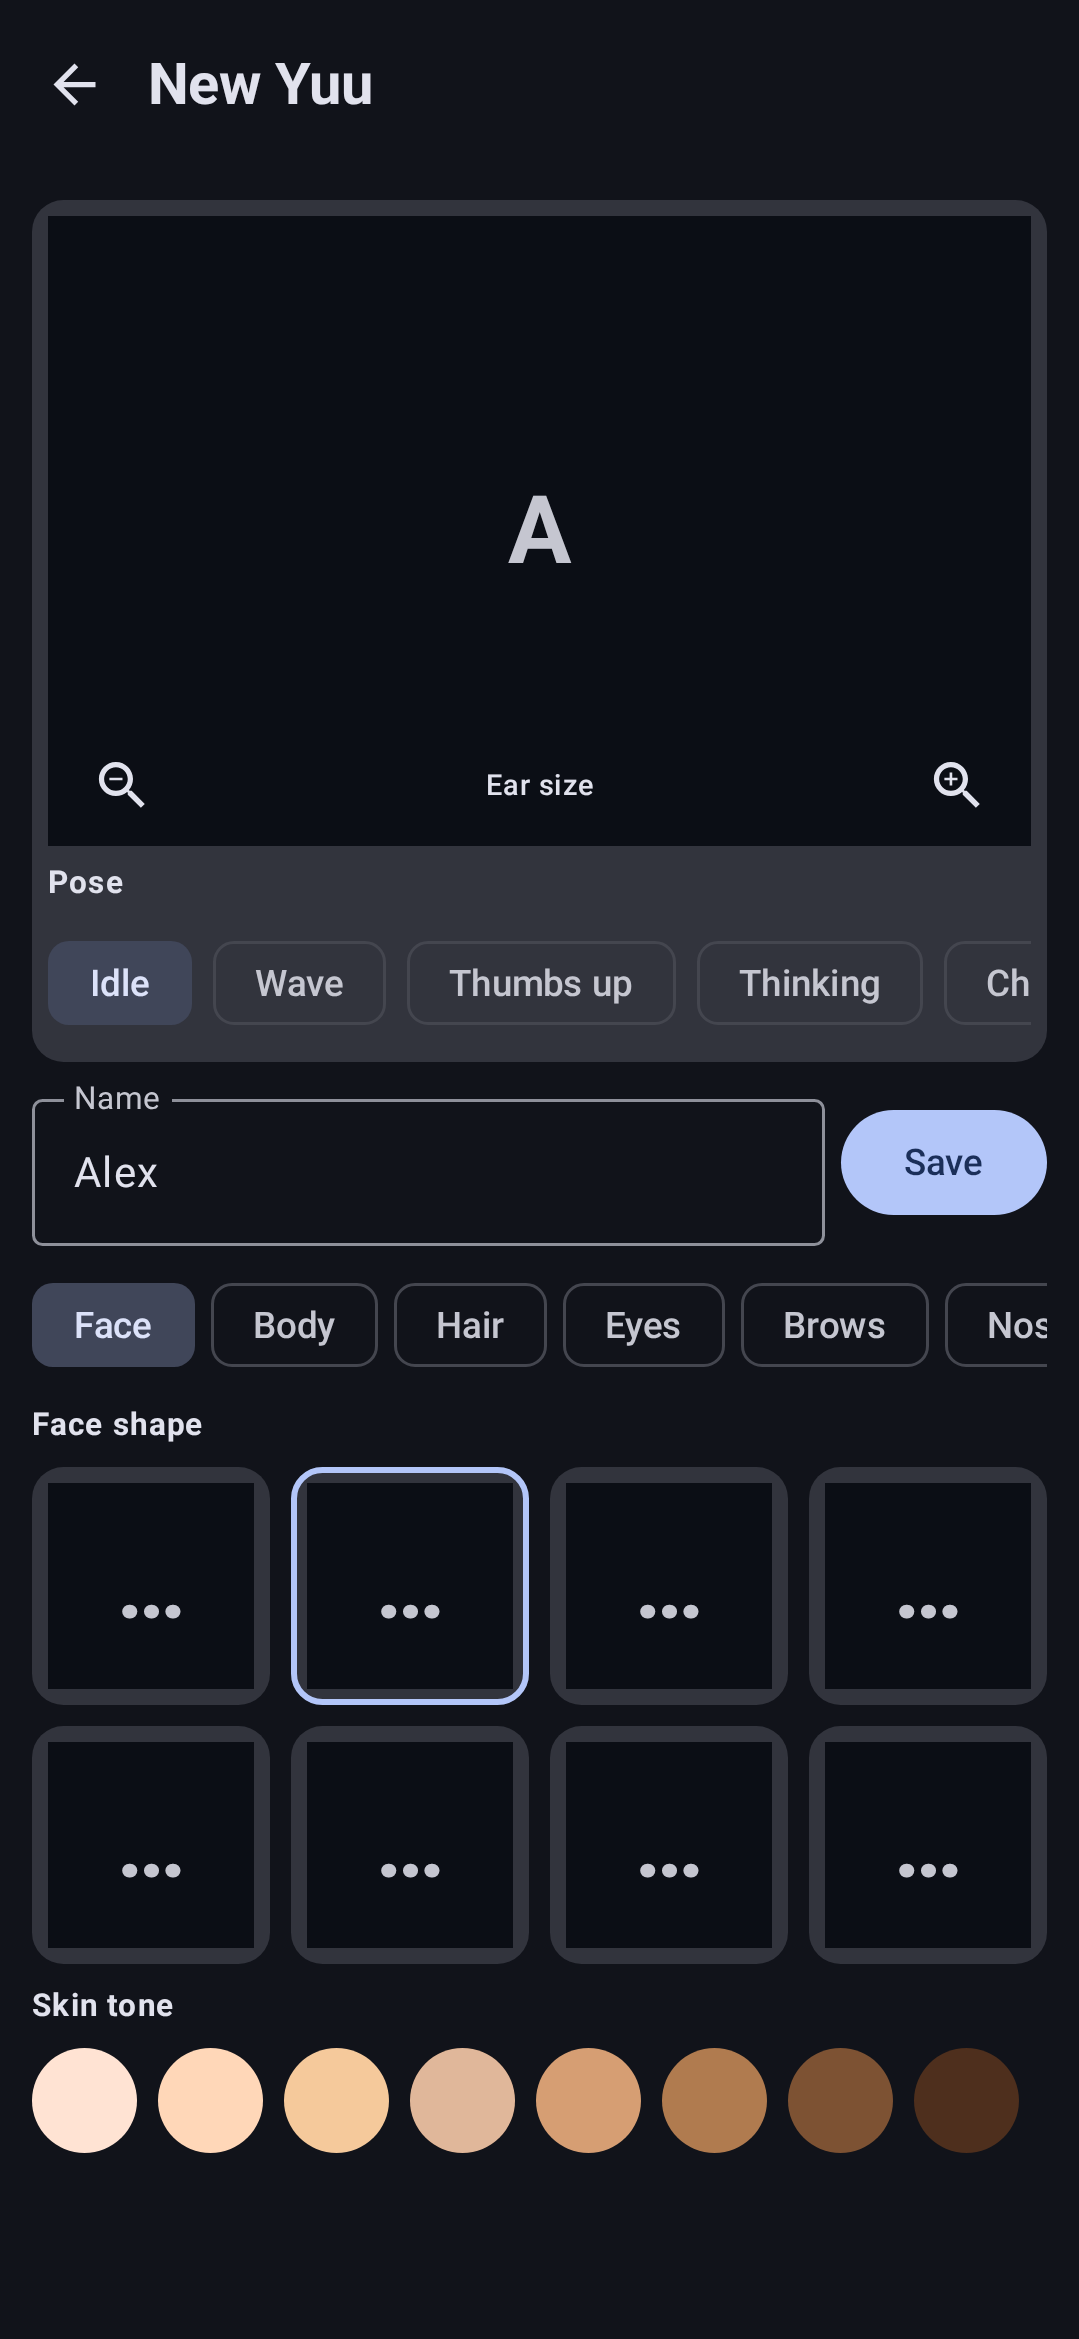
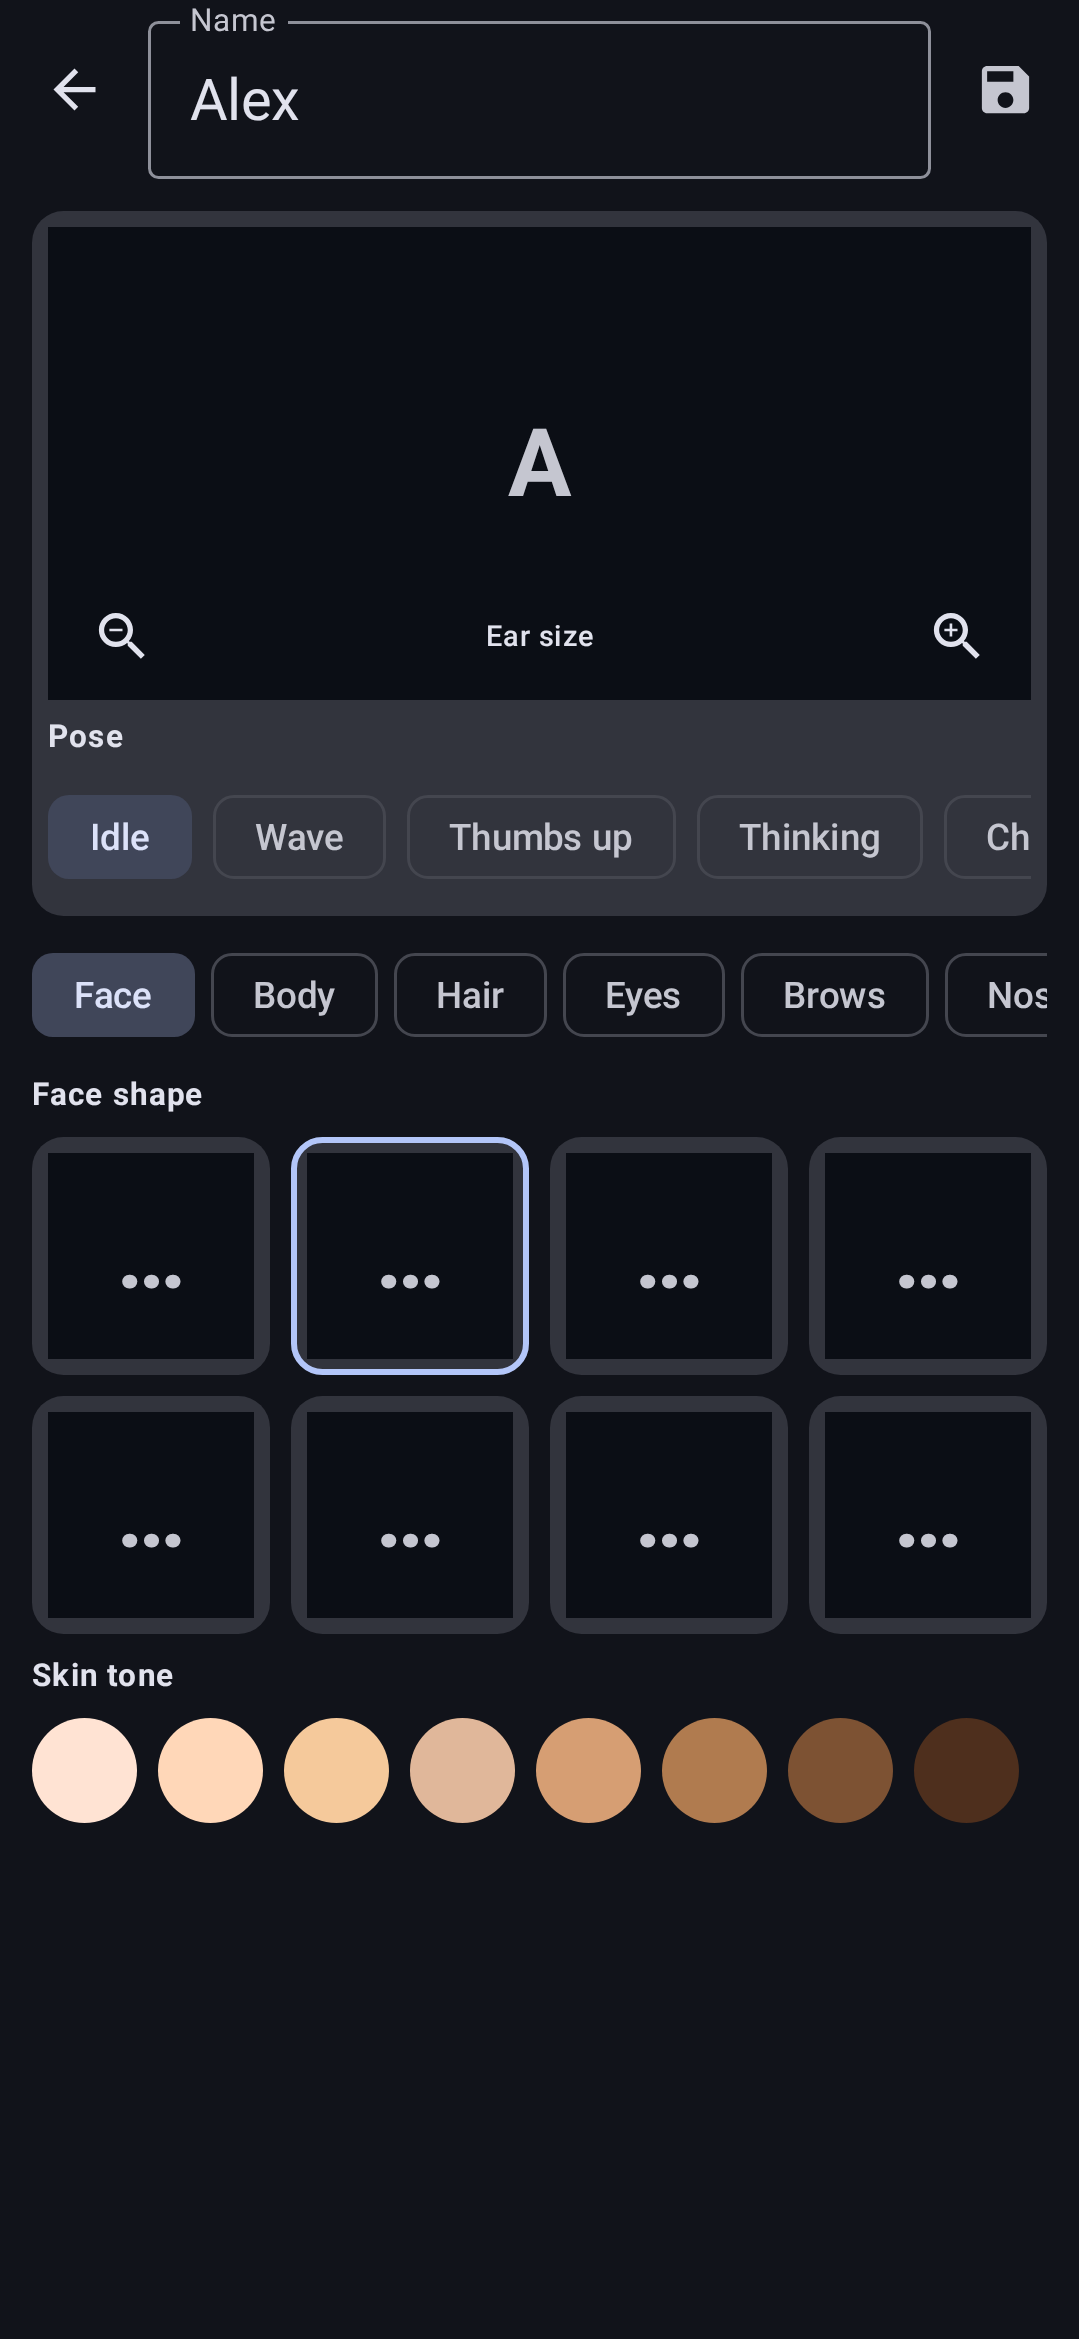
various fixes

Changed region(s): [[0.0306, 0.1873, 0.9787, 0.9363], [0.0306, 0.0, 0.9481, 0.1248]]

diff --git a/games/hub/src/main/java/com/vayunmathur/games/hub/ui/screens/YuuEditorScreen.kt b/games/hub/src/main/java/com/vayunmathur/games/hub/ui/screens/YuuEditorScreen.kt
@@ -51,7 +51,6 @@ import com.vayunmathur.games.hub.ui.yuu.YuuCategory
 import com.vayunmathur.games.hub.ui.yuu.YuuEditorActions
 import com.vayunmathur.games.hub.ui.yuu.YuuEditorUiState
 import com.vayunmathur.library.ui.AppScaffold
-import com.vayunmathur.library.ui.Button
 import com.vayunmathur.library.ui.Card
 import com.vayunmathur.library.ui.FilterChip
 import com.vayunmathur.library.ui.IconArrowDownward
@@ -59,6 +58,7 @@ import com.vayunmathur.library.ui.IconArrowUpward
 import com.vayunmathur.library.ui.IconButton
 import com.vayunmathur.library.ui.IconRotateLeft
 import com.vayunmathur.library.ui.IconRotateRight
+import com.vayunmathur.library.ui.IconSave
 import com.vayunmathur.library.ui.IconUnfoldLess
 import com.vayunmathur.library.ui.IconUnfoldMore
 import com.vayunmathur.library.ui.IconZoomIn
@@ -92,14 +92,30 @@ fun YuuEditorScreen(
 
     AppScaffold(
         title = {
-            Text(
-                stringResource(
-                    if (state.editingId == null) R.string.yuu_new else R.string.yuu_edit_title
-                ),
-                fontWeight = FontWeight.Bold,
+            OutlinedTextField(
+                value = name,
+                onValueChange = { name = it; nameError = false },
+                label = { Text(stringResource(UiR.string.name)) },
+                singleLine = true,
+                isError = nameError,
+                supportingText = if (nameError) {
+                    { Text(stringResource(R.string.yuu_name_required)) }
+                } else null,
+                modifier = Modifier.fillMaxWidth(),
             )
         },
         onNavigateBack = actions::onDismiss,
+        actions = {
+            IconButton(
+                onClick = {
+                    if (name.isBlank()) {
+                        nameError = true
+                    } else {
+                        actions.onSave(name, draft.toConfig())
+                    }
+                }
+            ) { IconSave() }
+        },
         scrollBehavior = appBarScrollBehavior(),
     ) { padding ->
         Column(
@@ -116,7 +132,7 @@ fun YuuEditorScreen(
                 ) {
                     Box(
                         modifier = Modifier.fillMaxWidth()
-                            .heightIn(max = 240.dp),
+                            .heightIn(max = 180.dp),
                         contentAlignment = Alignment.Center,
                     ) {
                         YuuAvatar3D(
@@ -153,34 +169,7 @@ fun YuuEditorScreen(
                     )
                 }
             }
-            // Zone 2: name + save on one compact row.
-            Row(
-                modifier = Modifier.fillMaxWidth(),
-                horizontalArrangement = Arrangement.spacedBy(6.dp),
-                verticalAlignment = Alignment.CenterVertically,
-            ) {
-                OutlinedTextField(
-                    value = name,
-                    onValueChange = { name = it; nameError = false },
-                    label = { Text(stringResource(UiR.string.name)) },
-                    singleLine = true,
-                    isError = nameError,
-                    supportingText = if (nameError) {
-                        { Text(stringResource(R.string.yuu_name_required)) }
-                    } else null,
-                    modifier = Modifier.weight(1f),
-                )
-                Button(
-                    onClick = {
-                        if (name.isBlank()) {
-                            nameError = true
-                        } else {
-                            actions.onSave(name, draft.toConfig())
-                        }
-                    },
-                ) { Text(stringResource(UiR.string.save)) }
-            }
-            // Zone 3: category rail (never scrolls the screen).
+            // Zone 2: category rail (never scrolls the screen).
             LazyRow(horizontalArrangement = Arrangement.spacedBy(6.dp)) {
                 items(YuuCategory.entries) { cat ->
                     FilterChip(
@@ -190,7 +179,7 @@ fun YuuEditorScreen(
                     )
                 }
             }
-            // Zone 4: the ONLY scrollable area — the option picker.
+            // Zone 3: the ONLY scrollable area — the option picker.
             Column(
                 modifier = Modifier.fillMaxWidth().weight(1f).verticalScroll(rememberScrollState()),
                 verticalArrangement = Arrangement.spacedBy(6.dp),
@@ -211,7 +200,7 @@ fun YuuEditorScreen(
 }
 
 /** Preview aspect (w/h): avatar and stepper overlay share it — keep in sync. */
-private const val PREVIEW_ASPECT = 1.5f
+private const val PREVIEW_ASPECT = 2.0f
 
 private fun YuuCategory.labelRes(): Int = when (this) {
     YuuCategory.Face -> R.string.yuu_cat_face

diff --git a/maps/src/main/rust/src/graph_part5.rs b/maps/src/main/rust/src/graph_part5.rs
@@ -196,6 +196,59 @@ mod archive_tests {
         ]
     }
 
+    /// One edge, v7 blocked: the escape index and name totals live behind the
+    /// blocked records and must read through the payload base, not null.
+    ///
+    /// Regression for the on-device SIGSEGV (`OfflineRouter_init`, 2026-10-19):
+    /// the v7 path nulled the edges/nodes base, so the escape-totals check in
+    /// `assemble` read `0x0 + offset` and faulted. The zero-edge v7 test above
+    /// takes the same code path, but with tables at offset 0 a null base still
+    /// lands inside the first mapped page on some loaders — one non-empty edge
+    /// record pushes the tables out and makes the fault deterministic.
+    fn single_edge_payloads_v7() -> Vec<(u8, Vec<u8>, u64)> {
+        // Two nodes (ids 0, 1) plus the sentinel: node 0 owns edge 0
+        // (`edge_ptr` [0, 1, 1]; the sentinel is `edge_count`).
+        let mut node_recs = Vec::new();
+        for edge_ptr in [0u32, 1u32, 1u32] {
+            node_recs.extend_from_slice(&0i32.to_le_bytes());
+            node_recs.extend_from_slice(&0i32.to_le_bytes());
+            node_recs.extend_from_slice(&edge_ptr.to_le_bytes());
+        }
+        let nodes = tilecodec::blocked::write_blocked(&node_recs, 12);
+        // One 7-byte edge record: target_delta +1, dist 1000 mm, type 5, limit 50.
+        let mut edge_rec = Vec::new();
+        edge_rec.extend_from_slice(&1i16.to_le_bytes());
+        edge_rec.extend_from_slice(&[0xE8, 0x03, 0x00]); // 1000, u24 LE
+        edge_rec.push(5u8);
+        edge_rec.push(50u8);
+        let recs = tilecodec::blocked::write_blocked(&edge_rec, 7);
+        let mut edges = recs;
+        while edges.len() % 8 != 0 {
+            edges.push(0);
+        }
+        // E = 1: two escape-block u32s (E/1024 + 1, total 0 escapes),
+        // then the names bitmap (rank (1/512 + 1) = 2 u64s + present
+        // div_ceil(1/8) = 1 byte), then zero name offsets (0 named).
+        edges.extend_from_slice(&0u32.to_le_bytes());
+        edges.extend_from_slice(&0u32.to_le_bytes());
+        edges.extend_from_slice(&0u64.to_le_bytes());
+        edges.extend_from_slice(&0u64.to_le_bytes());
+        edges.push(0u8);
+        vec![
+            (
+                ARCHIVE_KIND_GRAPH_META,
+                meta_at(GRAPH_VERSION, 2, 1, 0, 0),
+                0,
+            ),
+            (ARCHIVE_KIND_GRAPH_NODES, nodes, 1),
+            (ARCHIVE_KIND_GRAPH_EDGES, edges, 0),
+            // G = 0, E = 1: bitmap 17 + coarse 8 + within 2 + G 8 = 35 bytes
+            // of trailer, zero blob. Sized from the counts, not copied from
+            // the zero-edge fixture (26 bytes: its bitmap is 9 for E = 0).
+            (ARCHIVE_KIND_GRAPH_INTERMEDIATE, vec![0u8; 35], 0),
+        ]
+    }
+
     #[test]
     fn container_layers_parse_before_assemble_runs() {
         let bytes = assemble(&minimal_payloads());
@@ -225,6 +278,23 @@ mod archive_tests {
         let node = g.node(0);
         assert_eq!((node.lat_e7, node.lon_e7), (0, 0));
         assert!(g.uses_blocked_sections(), "v7 takes the blocked path");
+    }
+
+    #[test]
+    fn a_v7_archive_with_an_edge_reads_the_tail_tables_past_the_records() {
+        let g =
+            load_slices(&single_edge_payloads_v7()).expect("a one-edge v7 archive loads");
+        assert_eq!(g.node_count, 2);
+        assert_eq!(g.edge_count, 1);
+        assert_eq!(g.escape_count, 0);
+        assert_eq!(g.named_edges, 0);
+        // The record comes back through the inflate cache...
+        let e = g.edge(0, 0);
+        assert_eq!(e.target, 1, "target_delta +1 from node 0");
+        assert_eq!(e.dist_mm, 1000);
+        // ...and node 1's range covers the sentinel, which needs the real
+        // nodes base, not null.
+        assert_eq!(g.edge_range(1), (1, 1), "last node's range ends at edge_count");
     }
 
     #[test]

diff --git a/maps/src/main/rust/src/graph_part4.rs b/maps/src/main/rust/src/graph_part4.rs
@@ -82,7 +82,12 @@ impl Graph {
         }
         let magic = u32::from_le_bytes([meta[0], meta[1], meta[2], meta[3]]);
         let version = u32::from_le_bytes([meta[4], meta[5], meta[6], meta[7]]);
-        if magic != GRAPH_MAGIC || version != GRAPH_VERSION {
+        // Accept the same range as the multi-file `load` and the archive
+        // `check_counts`: v6 raw tables still read directly, v7 blocked.
+        // Rejecting v6 here (exact `== GRAPH_VERSION`) refused every
+        // pre-blocked archive on the single-archive path, including the
+        // minimal-v6 round-trip test.
+        if magic != GRAPH_MAGIC || !(GRAPH_VERSION_MIN..=GRAPH_VERSION).contains(&version) {
             return None;
         }
         let u64_at = |o: usize| {
@@ -167,11 +172,14 @@ impl Graph {
         if edges_bytes.len() as u64 != want_edges {
             return None;
         }
-        let edges_ptr = if edges_view.is_some() {
-            ptr::null()
-        } else {
-            edges_bytes.as_ptr()
-        };
+        // The escape index, escape rows and name tables live behind the
+        // record array in the same payload, raw in both v6 and v7 — only the
+        // record array itself is blocked-compressed. So the table base is the
+        // payload base unconditionally; the per-record readers branch onto the
+        // inflated view (see `edge_rec`). Nulling the base under v7 left every
+        // table at `0x0 + offset` and the totals check below read past null
+        // (on-device SIGSEGV in `OfflineRouter_init`, 2026-10-19).
+        let edges_ptr = edges_bytes.as_ptr();
         let escape_first = unsafe { edges_ptr.add(escape_first_off as usize) };
         let escapes_ptr = unsafe { edges_ptr.add(escapes_off as usize) };
         let names = EdgeBitmap {
@@ -339,17 +347,20 @@ impl Graph {
         };
 
         // A wrong-length elevation payload is dropped, not kept mapped:
-        // nothing should read a stale vintage's bytes.
+        // nothing should read a stale vintage's bytes. A valid v7 blocked
+        // view has a null raw pointer by design (`node_elevation` branches
+        // onto the view first), so it must not count as "no elevation" here:
+        // dropping the region would unmap the frames the view reads.
         let mut own = own;
-        if elevation.is_null() {
+        if elevation.is_null() && elevation_view.is_none() {
             own.elevation = None;
         }
 
-        let nodes = if nodes_view.is_some() {
-            ptr::null()
-        } else {
-            nodes_bytes.as_ptr()
-        };
+        // Table base is the payload base unconditionally: under v7 the raw
+        // bytes are the blocked section, never read as records (see `node`,
+        // which branches onto the inflated view first). Nulling it instead
+        // made `get_node`'s `is_null` guard return a zeroed node for every id.
+        let nodes = nodes_bytes.as_ptr();
         // --- Derived tables (identical formulas to the C++ init) ---
         let mut lon_to_mm_scale = [0u32; 4096];
         for (i, scale) in lon_to_mm_scale.iter_mut().enumerate() {

diff --git a/maps/src/main/rust/src/graph_part2.rs b/maps/src/main/rust/src/graph_part2.rs
@@ -103,11 +103,7 @@ impl Graph {
             }
             None
         };
-        let _nodes = if nodes_view.is_some() {
-            ptr::null()
-        } else {
-            nodes_region.base()
-        };
+        let _nodes = nodes_region.base();
 
         // edges.bin's five sections, computed forwards from the metadata counts.
         // The total-length assertion below is what replaces v3's self-locating
@@ -149,11 +145,11 @@ impl Graph {
         if edges_region.len as u64 != want_edges {
             return None;
         }
-        let edges = if edges_view.is_some() {
-            ptr::null()
-        } else {
-            edges_region.base()
-        };
+        // Table base is the file base unconditionally: only the record array
+        // itself is blocked-compressed under v7 (see the single-archive
+        // `assemble` — same fix, same on-device SIGSEGV). The per-record
+        // readers branch onto the inflated view (see `edge_rec`).
+        let edges = edges_region.base();
         let escape_first = unsafe { edges.add(escape_first_off as usize) };
         let escapes = unsafe { edges.add(escapes_off as usize) };
         let names = EdgeBitmap {
@@ -309,8 +305,14 @@ impl Graph {
             _ => (ptr::null(), None),
         };
         // A wrong-length elevation.bin is dropped, not kept mapped: nothing should read a stale
-        // vintage's bytes, and holding the region alive would imply it is usable.
-        let elevation_region = if elevation.is_null() { None } else { elevation_region };
+        // vintage's bytes, and holding the region alive would imply it is usable. A valid v7
+        // blocked view has a null raw pointer by design (see `node_elevation`), so it must not
+        // drop the region its frames live in.
+        let elevation_region = if elevation.is_null() && elevation_view.is_none() {
+            None
+        } else {
+            elevation_region
+        };
 
         let nodes = nodes_region.base();
         // --- Derived tables (identical formulas to the C++ init) ---

diff --git a/maps/src/main/rust/src/graph_part3.rs b/maps/src/main/rust/src/graph_part3.rs
@@ -205,6 +205,10 @@ impl Graph {
     /// `source`, into `out`. Returns `Some((count, is_reversed))`, with `count == 0`
     /// when the edge stores no polyline. `out` must hold at least 256 points.
     ///
+    /// The `edges.is_null()` arm means "graph without an edge table", not
+    /// "blocked layout": under v7 the base is still the section base (see
+    /// `load`/`assemble`), and the per-record path reads the inflate cache.
+    ///
     /// `source` must really be the node whose range `edge_idx` falls in. It seeds
     /// the decode, so a wrong one silently draws the polyline from the wrong place.
     /// Every call site iterating a node's edge range already has it; the one that

diff --git a/maps/src/main/rust/src/graph_part2b.rs b/maps/src/main/rust/src/graph_part2b.rs
@@ -52,6 +52,10 @@ impl Graph {
     /// Deliberately asymmetric with [`Graph::node`], which is unchecked: the
     /// sentinel index `node_count` is a *valid* read that this method rejects, and
     /// [`Graph::edge_range`] depends on being able to make it.
+    ///
+    /// Note: under v7 the raw table pointer is still the section base (never
+    /// null), so this null check means "graph without a node table", not
+    /// "blocked layout" (see `load`/`assemble`).
     #[inline]
     pub fn get_node(&self, id: u32) -> NodeMaster {
         if self.nodes.is_null() || id >= self.node_count {
